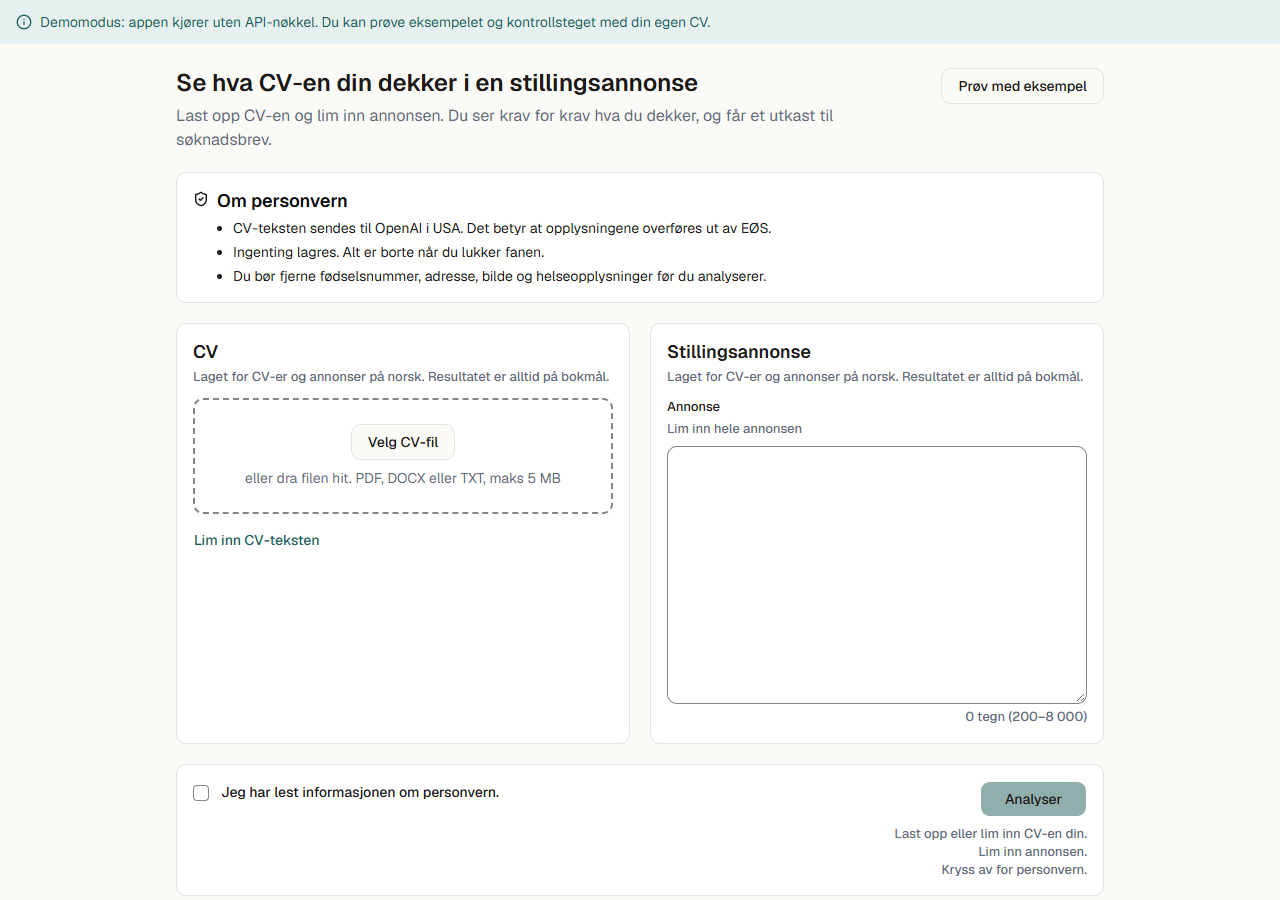
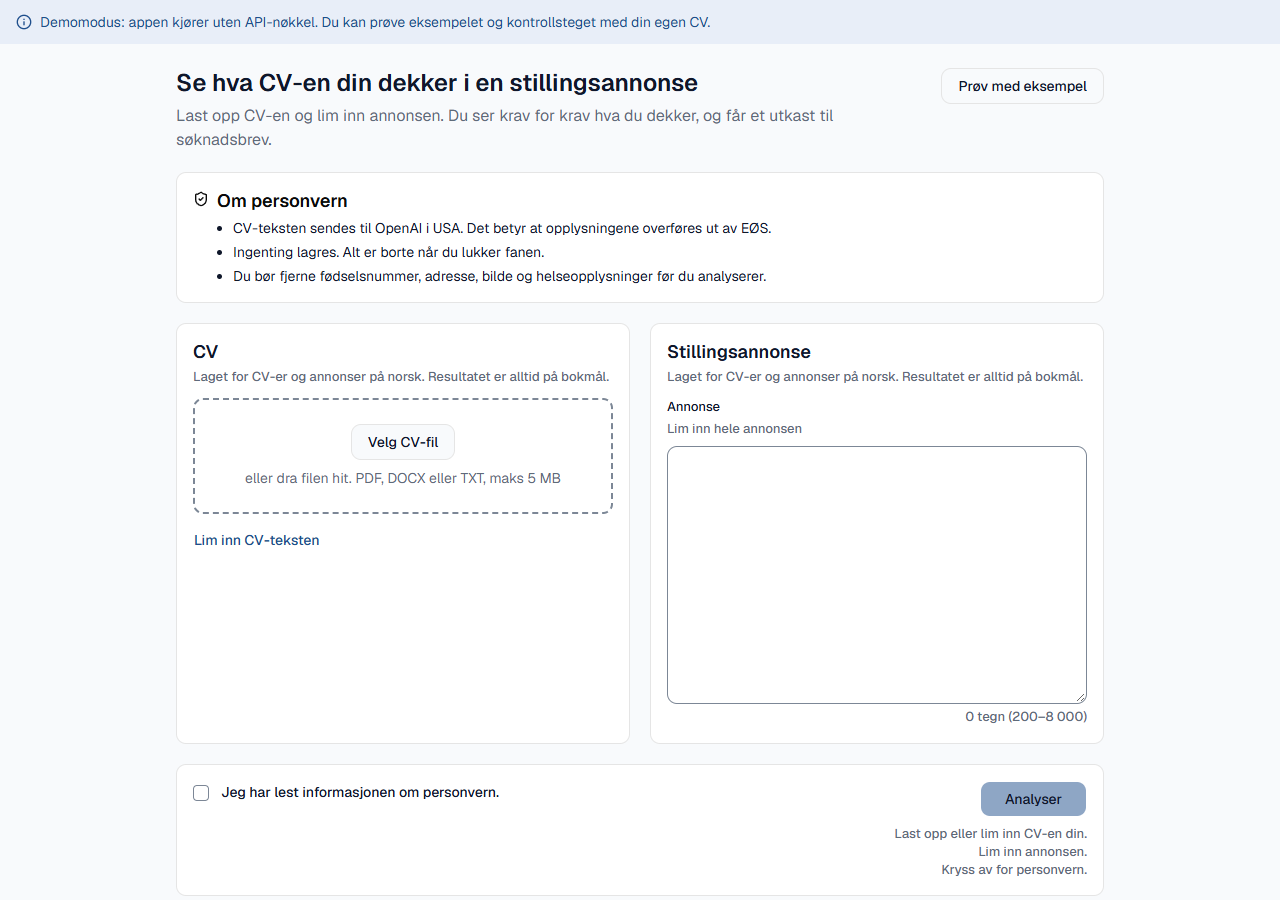
style: blå hovedfarge og kjølig bakgrunn
Hovedfargen endres fra grønnblå #1F5F5B til blå #1E4E8C (8,3:1 mot hvitt),
med kjølig bakgrunn, tekst, feltkant og belegg. Kategorifargene er uendret.
Alle par er regnet etter WCAG AA. DESIGN.md, memlog, testen som låser
tokenene og skjermbildene i README-en er oppdatert.

Changed region(s): [[0.75, 0.8711, 0.875, 0.9333]]

diff --git a/src/app/globals.css b/src/app/globals.css
@@ -75,14 +75,14 @@
 }
 
 :root {
-  --background: #fafaf7;
-  --foreground: #1c1917;
+  --background: #f8fafc;
+  --foreground: #0f172a;
   --card: oklch(1 0 0);
   --card-foreground: oklch(0.145 0 0);
   --popover: oklch(1 0 0);
   --popover-foreground: oklch(0.145 0 0);
-  --primary: #1f5f5b;
-  --primary-soft: #e6f0ef;
+  --primary: #1e4e8c;
+  --primary-soft: #e8eef8;
   --primary-foreground: #ffffff;
   --secondary: oklch(0.97 0 0);
   --secondary-foreground: oklch(0.205 0 0);
@@ -92,16 +92,16 @@
   --accent-foreground: oklch(0.205 0 0);
   --destructive: #b91c1c;
   --border: oklch(0.922 0 0);
-  --input: #8a857c;
-  --ring: #1f5f5b;
+  --input: #7c8796;
+  --ring: #1e4e8c;
   --oppfylt: #1c6b3c;
   --oppfylt-bg: #e7f4ec;
   --delvis: #7a5200;
   --delvis-bg: #fdf3dc;
   --mangler: #9a3412;
   --mangler-bg: #fdede5;
-  --belegg: #3f3a33;
-  --belegg-bg: #f5f3ee;
+  --belegg: #334155;
+  --belegg-bg: #f1f5f9;
   --chart-1: oklch(0.87 0 0);
   --chart-2: oklch(0.556 0 0);
   --chart-3: oklch(0.439 0 0);

diff --git a/src/repo-regler.test.ts b/src/repo-regler.test.ts
@@ -94,23 +94,23 @@ describe("tema", () => {
     const css = readFileSync("src/app/globals.css", "utf8");
 
     for (const token of [
-      "--background: #fafaf7",
-      "--foreground: #1c1917",
+      "--background: #f8fafc",
+      "--foreground: #0f172a",
       "--muted-foreground: #5f6b7a",
-      "--input: #8a857c",
-      "--ring: #1f5f5b",
+      "--input: #7c8796",
+      "--ring: #1e4e8c",
       "--destructive: #b91c1c",
-      "--primary: #1f5f5b",
+      "--primary: #1e4e8c",
       "--primary-foreground: #ffffff",
-      "--primary-soft: #e6f0ef",
+      "--primary-soft: #e8eef8",
       "--oppfylt: #1c6b3c",
       "--oppfylt-bg: #e7f4ec",
       "--delvis: #7a5200",
       "--delvis-bg: #fdf3dc",
       "--mangler: #9a3412",
       "--mangler-bg: #fdede5",
-      "--belegg: #3f3a33",
-      "--belegg-bg: #f5f3ee",
+      "--belegg: #334155",
+      "--belegg-bg: #f1f5f9",
       "--text-page-title:",
       "--text-section-title:",
       "--text-letter:",

diff --git a/_bmad-output/planning-artifacts/ux-designs/ux-G69-heggdal-skogheim-2026-10-30/DESIGN.md b/_bmad-output/planning-artifacts/ux-designs/ux-G69-heggdal-skogheim-2026-10-30/DESIGN.md
@@ -3,28 +3,28 @@ name: AI CV & Job Application Assistant
 description: Ærlig gap-analyse og søknadshjelp for studenter på norsk. shadcn/ui på Next.js og Tailwind; denne fila beskriver bare avvikene fra shadcn sine standarder.
 status: final
 created: 2026-10-30
-updated: 2026-10-30
+updated: 2026-11-20
 colors:
   # Overstyringer oppå shadcn. Alt som ikke står her (foreground, muted,
   # border, card, popover) arves. Tokenene under er satt eksplisitt fordi
   # standardverdiene i shadcn er for svake for tilgjengelighet.
-  background: '#FAFAF7'
-  foreground: '#1C1917'
+  background: '#F8FAFC'
+  foreground: '#0F172A'
   muted-foreground: '#5F6B7A'
-  input: '#8A857C'
-  ring: '#1F5F5B'
+  input: '#7C8796'
+  ring: '#1E4E8C'
   destructive: '#B91C1C'
-  primary: '#1F5F5B'
+  primary: '#1E4E8C'
   primary-foreground: '#FFFFFF'
-  primary-soft: '#E6F0EF'
+  primary-soft: '#E8EEF8'
   oppfylt: '#1C6B3C'
   oppfylt-bg: '#E7F4EC'
   delvis: '#7A5200'
   delvis-bg: '#FDF3DC'
   mangler: '#9A3412'
   mangler-bg: '#FDEDE5'
-  belegg: '#3F3A33'
-  belegg-bg: '#F5F3EE'
+  belegg: '#334155'
+  belegg-bg: '#F1F5F9'
 typography:
   # Geist Sans fra shadcn for alle roller. Bare rollene under overstyres.
   page-title:
@@ -129,17 +129,17 @@ shadcn/ui arves nesten uendret. Denne fila beskriver bare avvikene: én primærf
 
 ## Colors
 
-- **Primær grønnblå (`#1F5F5B`)** brukes på primærknapper, aktiv fane, lenker, fokusring og kanten på belegg og forslagskort. Den er rolig og tillitvekkende uten å ligne en bank. Kontrast 7,4:1 mot hvitt.
-- **Primær myk (`#E6F0EF`)** er bakgrunnen for funne nøkkelord og demobanneret.
-- **Bakgrunn (`#FAFAF7`)** er en varm off-white som gjør hvite kort og tekstfelt tydelige.
-- **Dempet tekst (`#5F6B7A`)** brukes til etiketter, tellere, merket «Nedgradert» og årsaken under deaktivert *Analyser*. Kontrast 5,2:1 mot bakgrunnen og 4,9:1 mot belegg-bakgrunnen. Den skal ikke lysnes.
-- **Feltkant (`#8A857C`)** er kanten på alle tekstfelt, opplastingsfeltet og stiplede nøkkelordbrikker. Kontrast 3,5:1 mot bakgrunnen og 3,7:1 mot hvitt (WCAG 1.4.11). Kanten er det som skiller redigerbar tekst fra låst tekst.
-- **Fokusring (`#1F5F5B`)** er 2 px heltrukken med 2 px avstand. shadcn sin halvgjennomsiktige standardring brukes ikke.
+- **Primær blå (`#1E4E8C`)** brukes på primærknapper, aktiv fane, lenker, fokusring og kanten på belegg og forslagskort. Den er profesjonell og tillitvekkende. Kontrast 8,3:1 mot hvitt og 8,0:1 mot bakgrunnen. Endret fra grønnblå `#1F5F5B` 2026-11-20 (Sondre), se `.memlog.md`.
+- **Primær myk (`#E8EEF8`)** er bakgrunnen for funne nøkkelord og demobanneret. Primær på primær myk: 7,1:1.
+- **Bakgrunn (`#F8FAFC`)** er en kjølig off-white som gjør hvite kort og tekstfelt tydelige. Tekst (`#0F172A`) har 17,1:1 mot bakgrunnen.
+- **Dempet tekst (`#5F6B7A`)** brukes til etiketter, tellere, merket «Nedgradert» og årsaken under deaktivert *Analyser*. Kontrast 5,2:1 mot bakgrunnen og 5,0:1 mot belegg-bakgrunnen. Den skal ikke lysnes.
+- **Feltkant (`#7C8796`)** er kanten på alle tekstfelt, opplastingsfeltet og stiplede nøkkelordbrikker. Kontrast 3,5:1 mot bakgrunnen og 3,6:1 mot hvitt (WCAG 1.4.11). Kanten er det som skiller redigerbar tekst fra låst tekst.
+- **Fokusring (`#1E4E8C`)** er 2 px heltrukken med 2 px avstand. shadcn sin halvgjennomsiktige standardring brukes ikke.
 - **Kategorifargene** brukes bare på kategorimerker og venstrekanten på kravkort, aldri som pynt eller advarsel:
   - **Oppfylt** `#1C6B3C` på `#E7F4EC` (5,8:1)
   - **Delvis oppfylt** `#7A5200` på `#FDF3DC` (6,3:1)
   - **Mangler** `#9A3412` på `#FDEDE5` (6,4:1). Rustrød, ikke feilrød: at noe mangler, er ærlig informasjon, ikke en feil.
-- **Belegg** `#3F3A33` på `#F5F3EE` (10,2:1) brukes bare til sitater fra CV-teksten.
+- **Belegg** `#334155` på `#F1F5F9` (9,5:1) brukes bare til sitater fra CV-teksten.
 - **Feil (`#B91C1C`)** er forbeholdt feilmeldinger, ugyldige felt og tellere over grensen. Kontrast 6,5:1 mot hvitt. Den brukes aldri på kategorien Mangler.
 
 Alle tekstpar oppfyller WCAG 2.1 AA (4,5:1). Kanter og fokusring oppfyller 3:1. Ingen tekst vises med redusert opasitet.

diff --git a/_bmad-output/planning-artifacts/ux-designs/ux-G69-heggdal-skogheim-2026-10-30/.memlog.md b/_bmad-output/planning-artifacts/ux-designs/ux-G69-heggdal-skogheim-2026-10-30/.memlog.md
@@ -30,3 +30,4 @@ updated: 2026-10-30T14:43
 - (event) Ikke rettet: lave funn (se review-filene); full språkvask med bmad-review droppet for å holde tiden nede, egen konsistenssjekk gjort
 - (event) Skissedekning bekreftet: forberedelse, gap-analyse og søknadsbrev skissert; resten bygges fra tabellene. Skisser ligger i mockups/ og er lenket fra EXPERIENCE.md
 - (event) spines finalized
+- (decision) 2026-11-20, Sondre: primærfargen endres fra grønnblå #1F5F5B til blå #1E4E8C (8,3:1 på hvitt), primær myk #E8EEF8, bakgrunn #F8FAFC, tekst #0F172A, feltkant #7C8796 og belegg #334155 på #F1F5F9, for et mer profesjonelt uttrykk. Kategorifargene og dempet tekst er uendret. Alle par er regnet etter WCAG og består AA
